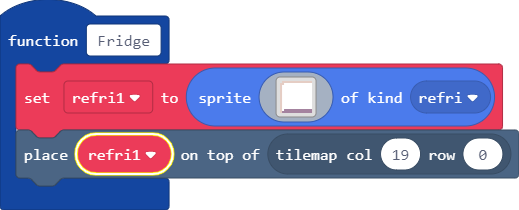
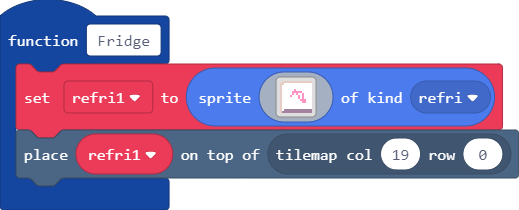
Update main.blocks, main.ts

Changed region(s): [[0.1233, 0.6286, 0.3391, 0.8571], [0.5549, 0.4286, 0.5857, 0.4857]]

diff --git a/main.ts b/main.ts
@@ -9,13 +9,13 @@ function Fridge () {
 d d 1 1 1 1 1 1 1 1 1 1 1 1 1 1 
 d 1 1 1 1 1 1 1 1 1 1 1 1 1 1 1 
 d 1 1 1 1 1 1 1 1 1 1 1 1 1 1 1 
-d 1 1 1 1 1 1 1 1 1 1 1 1 1 1 1 
-d 1 1 1 1 1 1 1 1 1 1 1 1 1 1 1 
-d 1 1 1 1 1 1 1 1 1 1 1 1 1 1 1 
-d 1 1 1 1 1 1 1 1 1 1 1 1 1 1 1 
-d 1 1 1 1 1 1 1 1 1 1 1 1 1 1 1 
-d 1 1 1 1 1 1 1 1 1 1 1 1 1 1 1 
-d 1 1 1 1 1 1 1 1 1 1 1 1 1 1 1 
+d 1 1 1 1 1 1 3 1 1 1 1 1 1 1 1 
+d 1 1 1 1 1 3 3 3 3 3 1 1 1 1 1 
+d 1 1 1 1 1 3 1 3 1 1 3 1 1 1 1 
+d 1 1 1 1 3 1 1 1 3 1 3 1 1 1 1 
+d 1 1 1 1 1 1 1 1 3 1 3 1 1 1 1 
+d 1 1 1 1 1 1 1 1 1 3 3 3 1 1 1 
+d 1 1 1 1 1 1 1 1 1 1 3 3 1 1 1 
 d 1 1 1 1 1 1 1 1 1 1 1 1 1 1 1 
 d 1 1 1 1 1 1 1 1 1 1 1 1 1 1 1 
 d 1 1 1 1 1 1 1 1 1 1 1 1 1 1 1 
